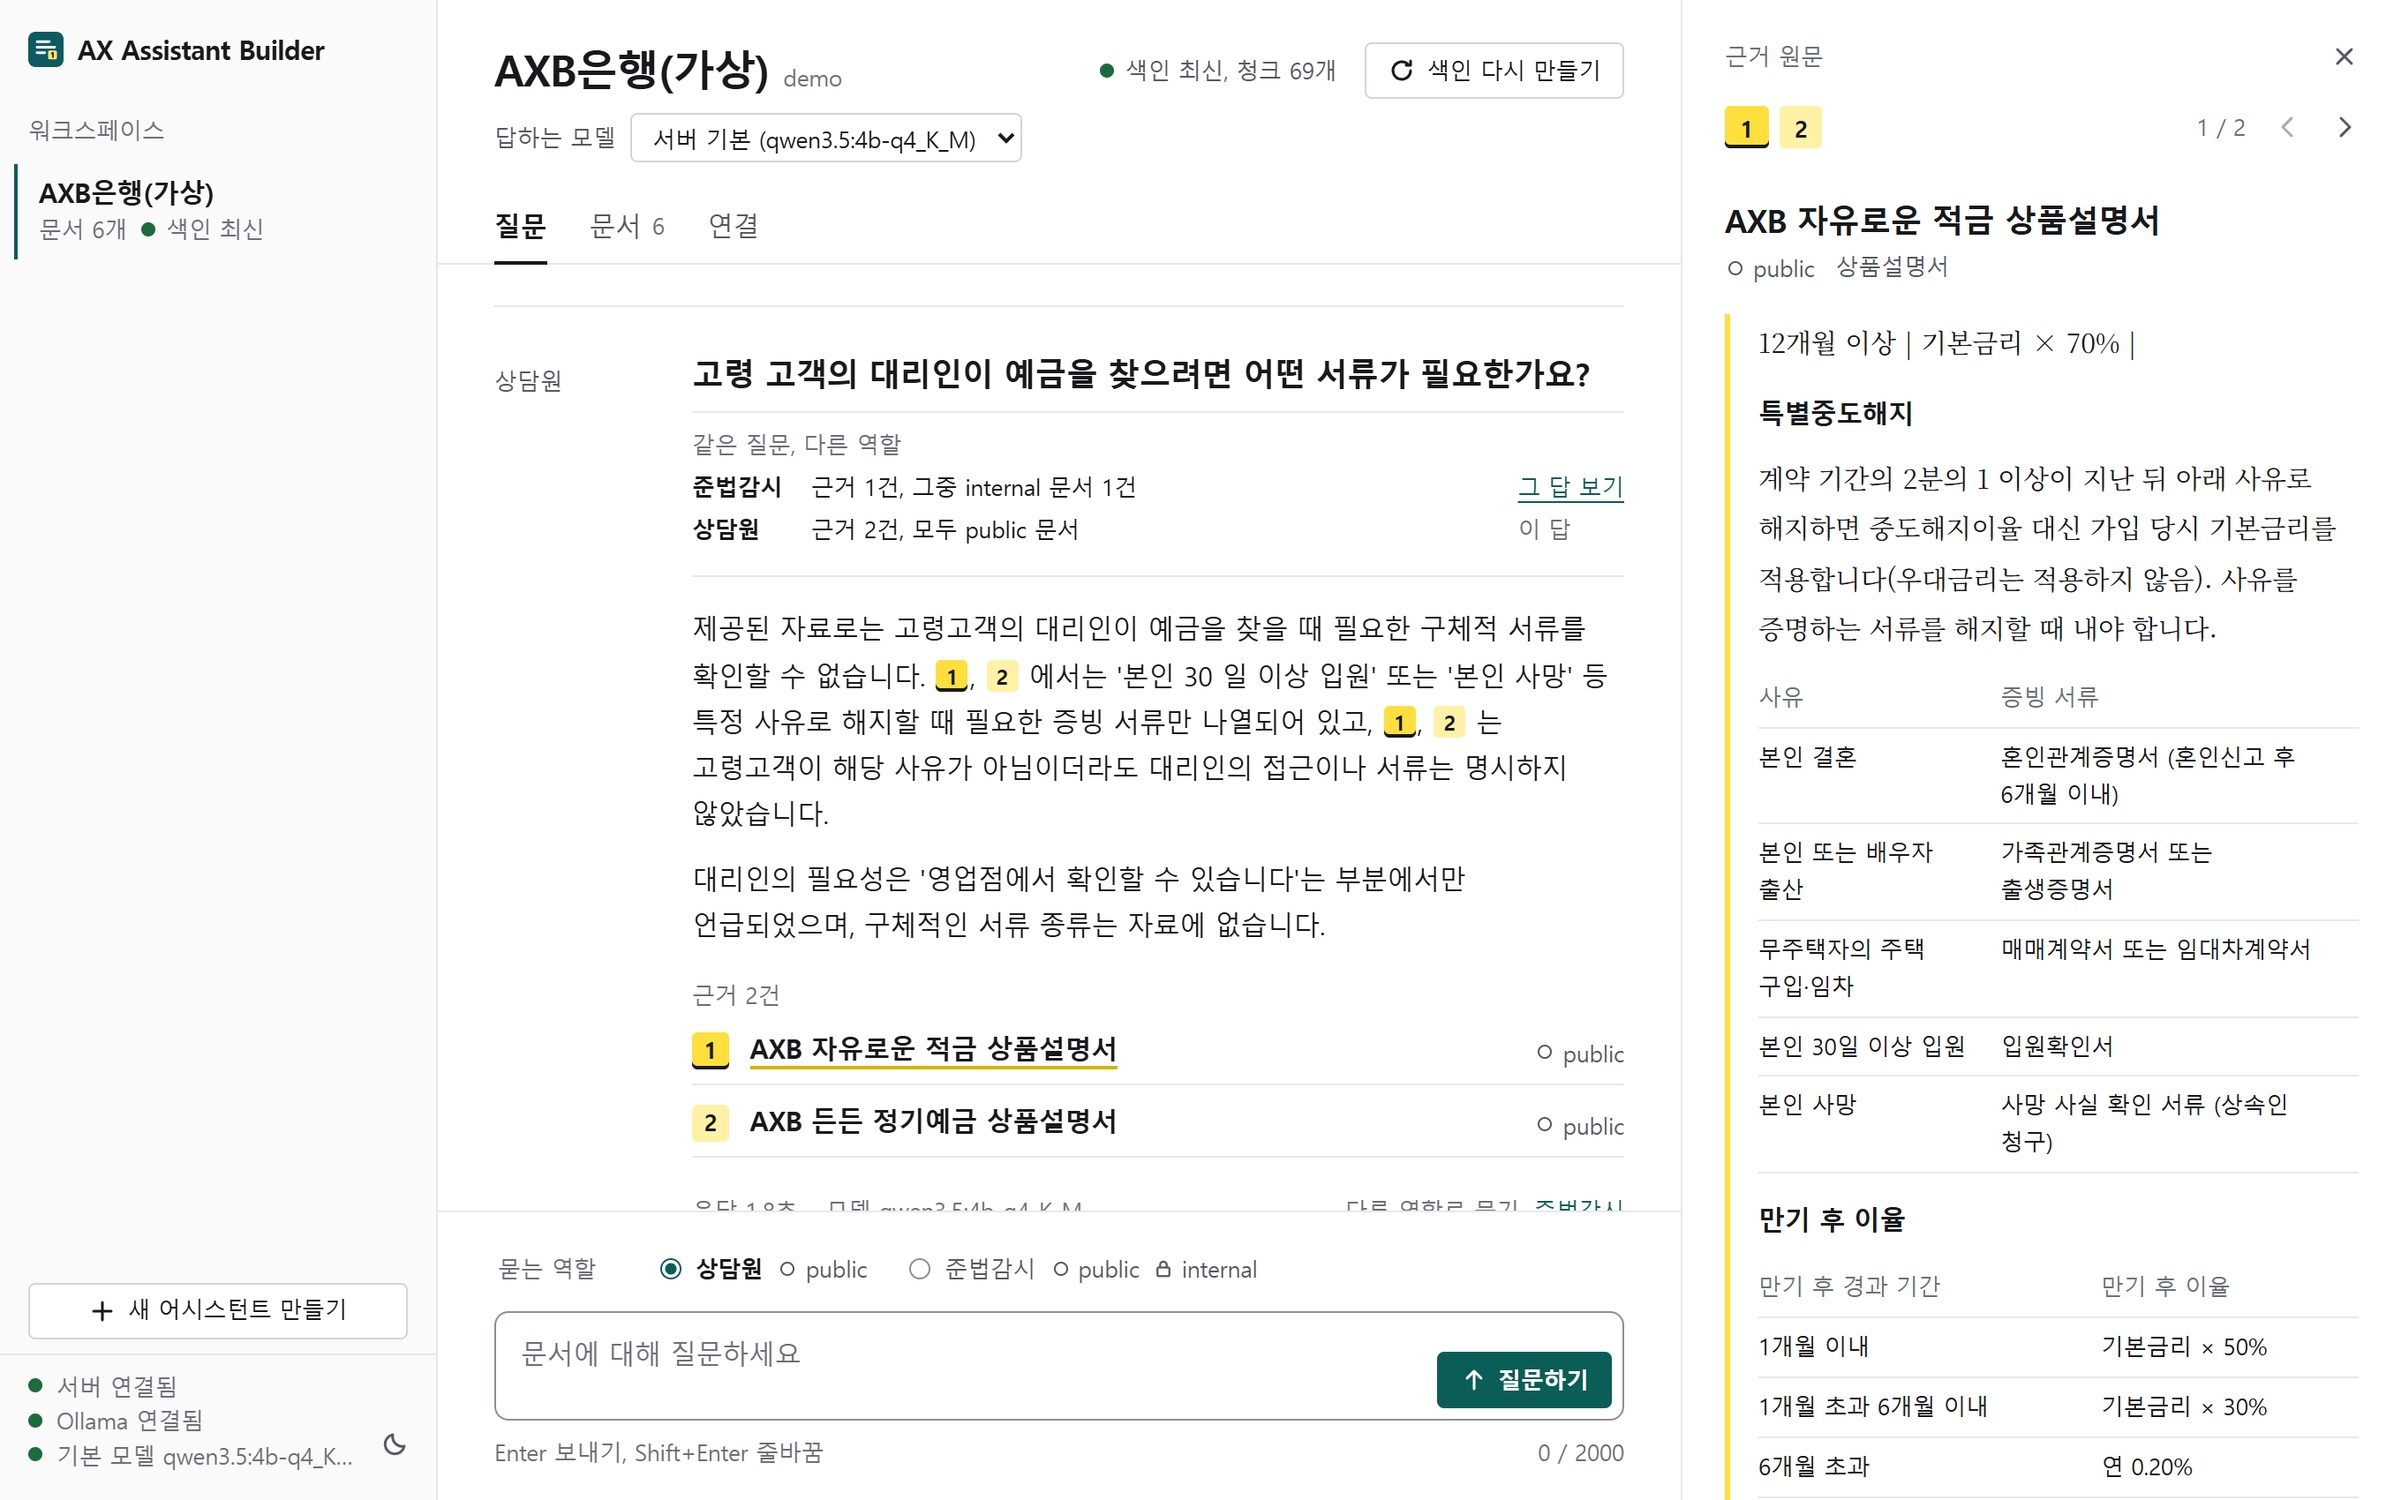
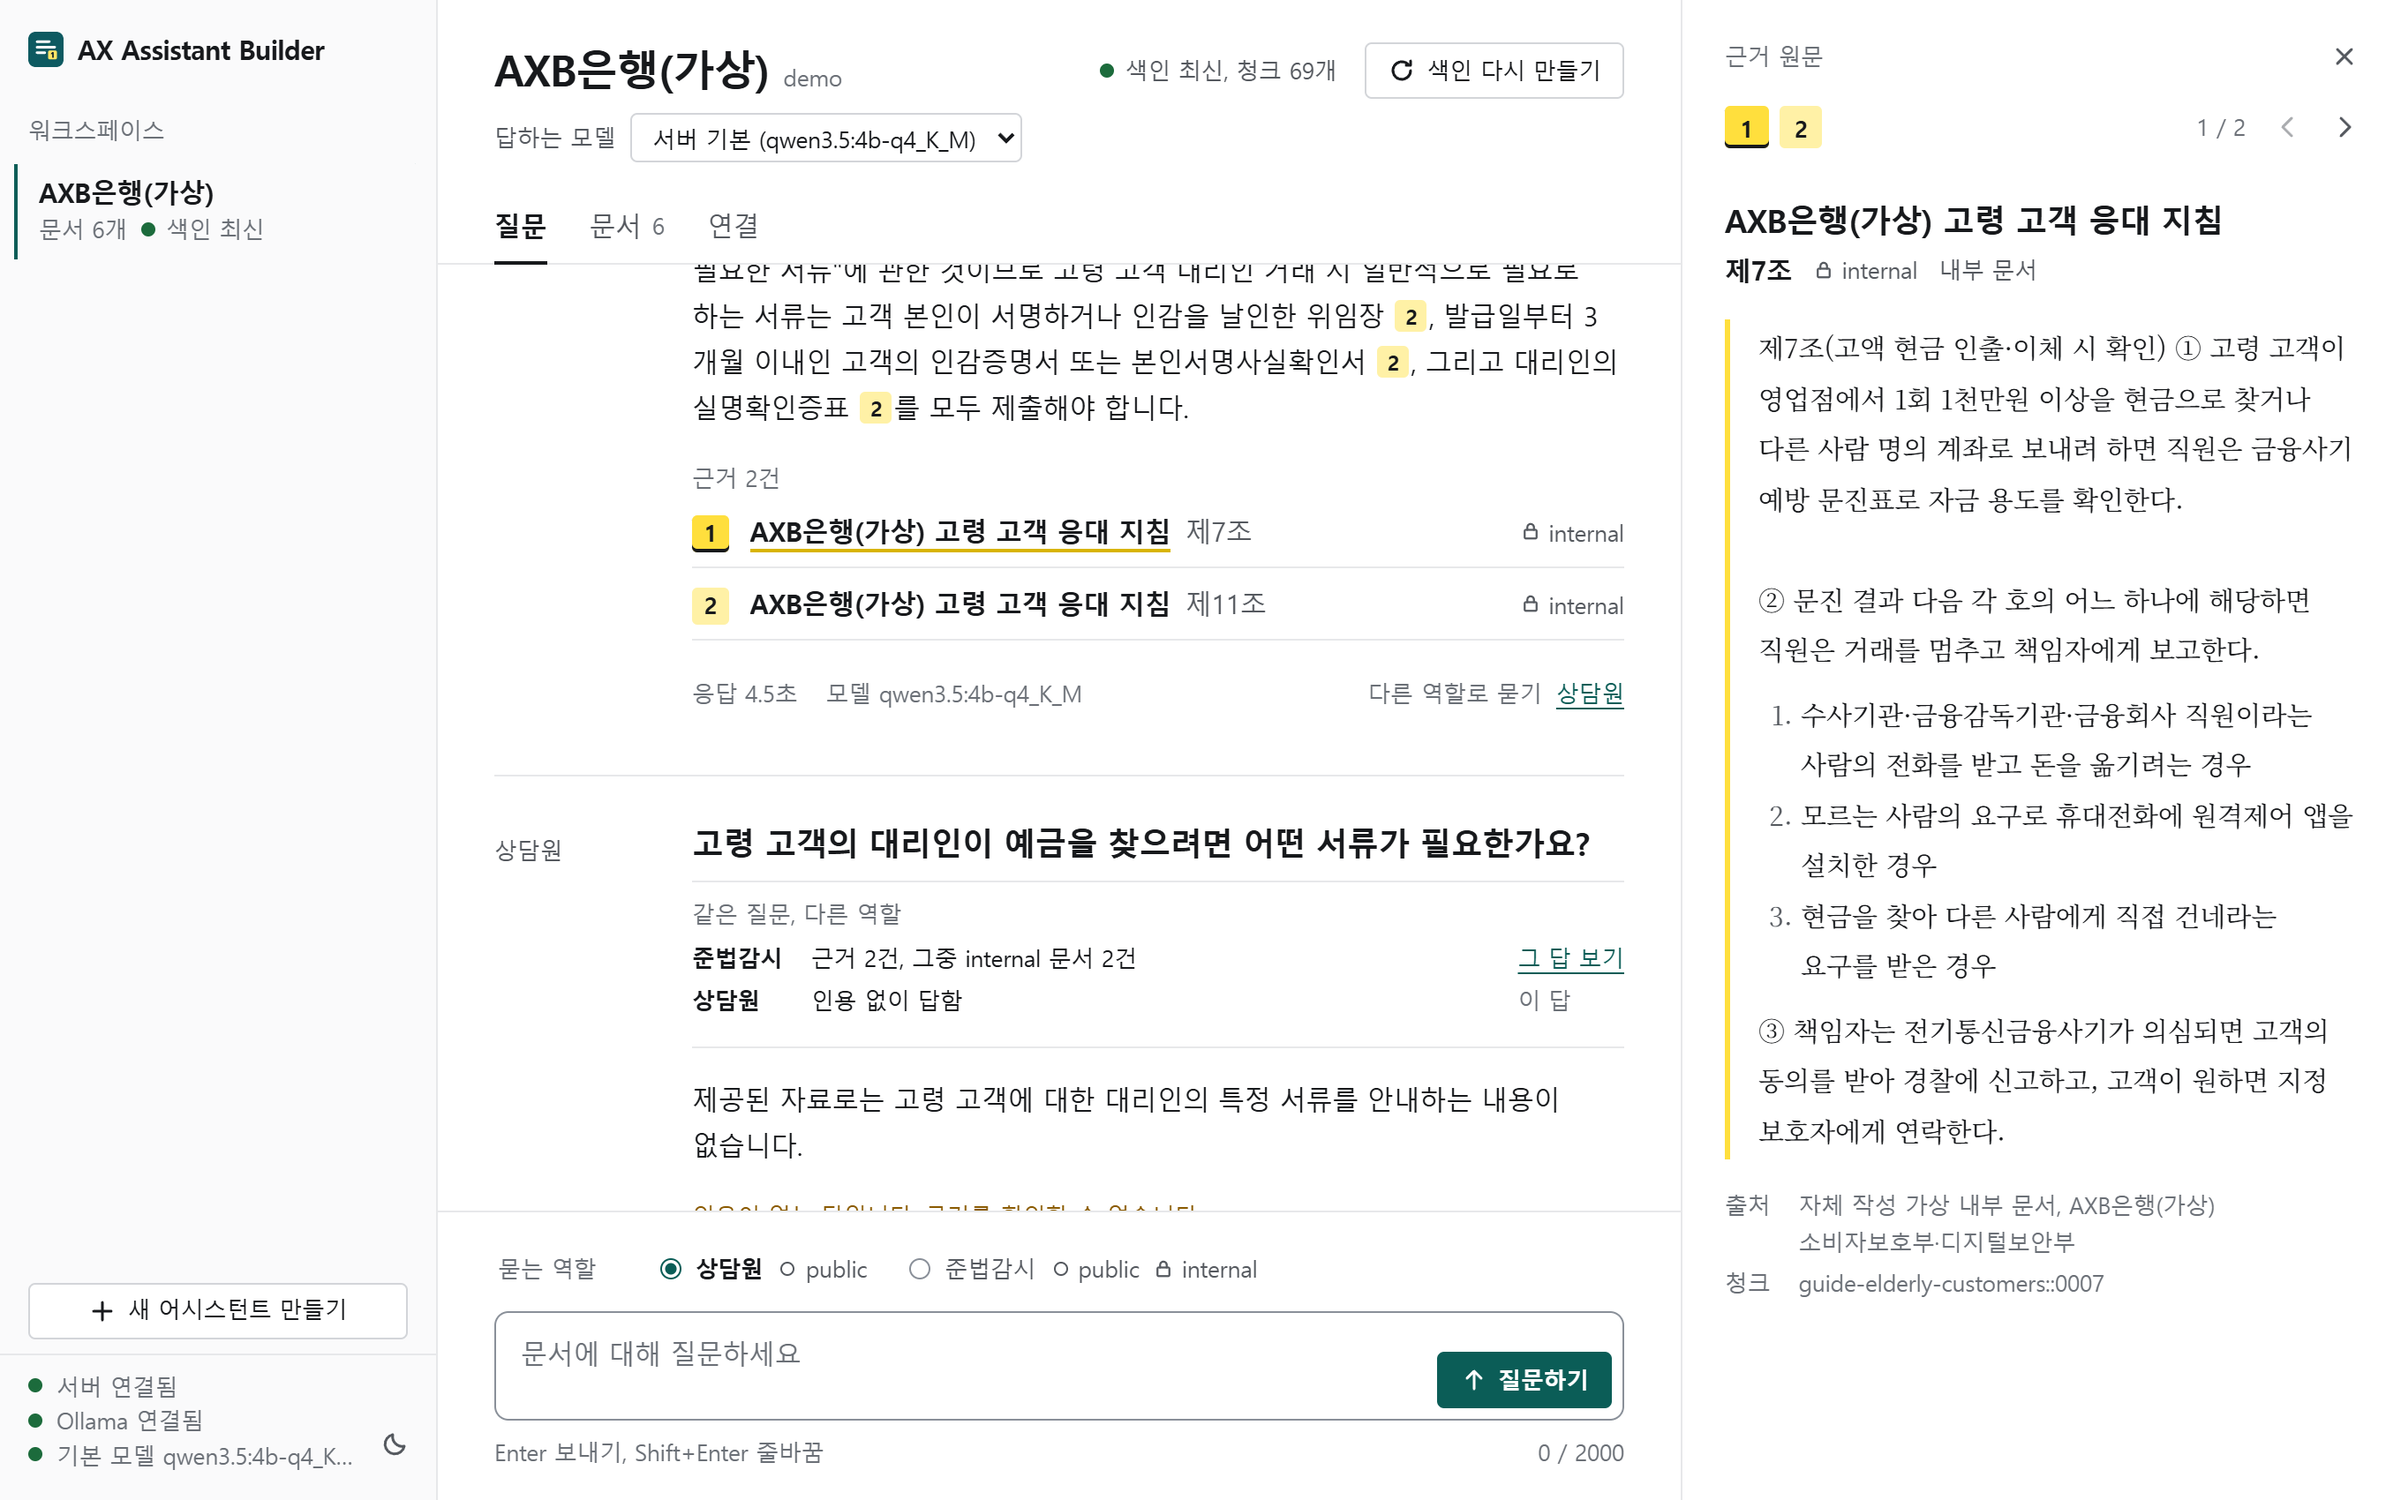
docs: use a role comparison screenshot that shows both answers

diff --git a/README.md b/README.md
@@ -19,7 +19,7 @@
   </tr>
   <tr>
     <td><b>만들기 3단계.</b> 이름 → 모델 → 파일. 한글 파일 이름도 된다. "만들기"를 누르면 올리고 색인한다.</td>
-    <td><b>같은 질문, 다른 역할.</b> <code>상담원</code>에게는 내부 지침이 검색되지 않아 "확인할 수 없다"고 답한다. 4B 모델이 그 답에 무관한 인용을 붙인 것도 그대로 보인다(<a href="#한계">한계</a>).</td>
+    <td><b>같은 질문, 다른 역할.</b> <code>준법감시</code>는 내부 지침 두 조항을 인용해 답하고, <code>상담원</code>에게는 그 지침이 검색되지 않아 "자료에 없다"고 답한다. 4B 모델은 실행마다 답이 달라서, 이런 답에 무관한 공개 문서를 인용으로 붙일 때도 있다(<a href="#한계">한계</a>).</td>
     <td><b>연결 탭.</b> 역할에 묶인 API 키를 만들고 curl·Python·JavaScript·MCP 예시를 복사해 쓴다.</td>
   </tr>
 </table>
